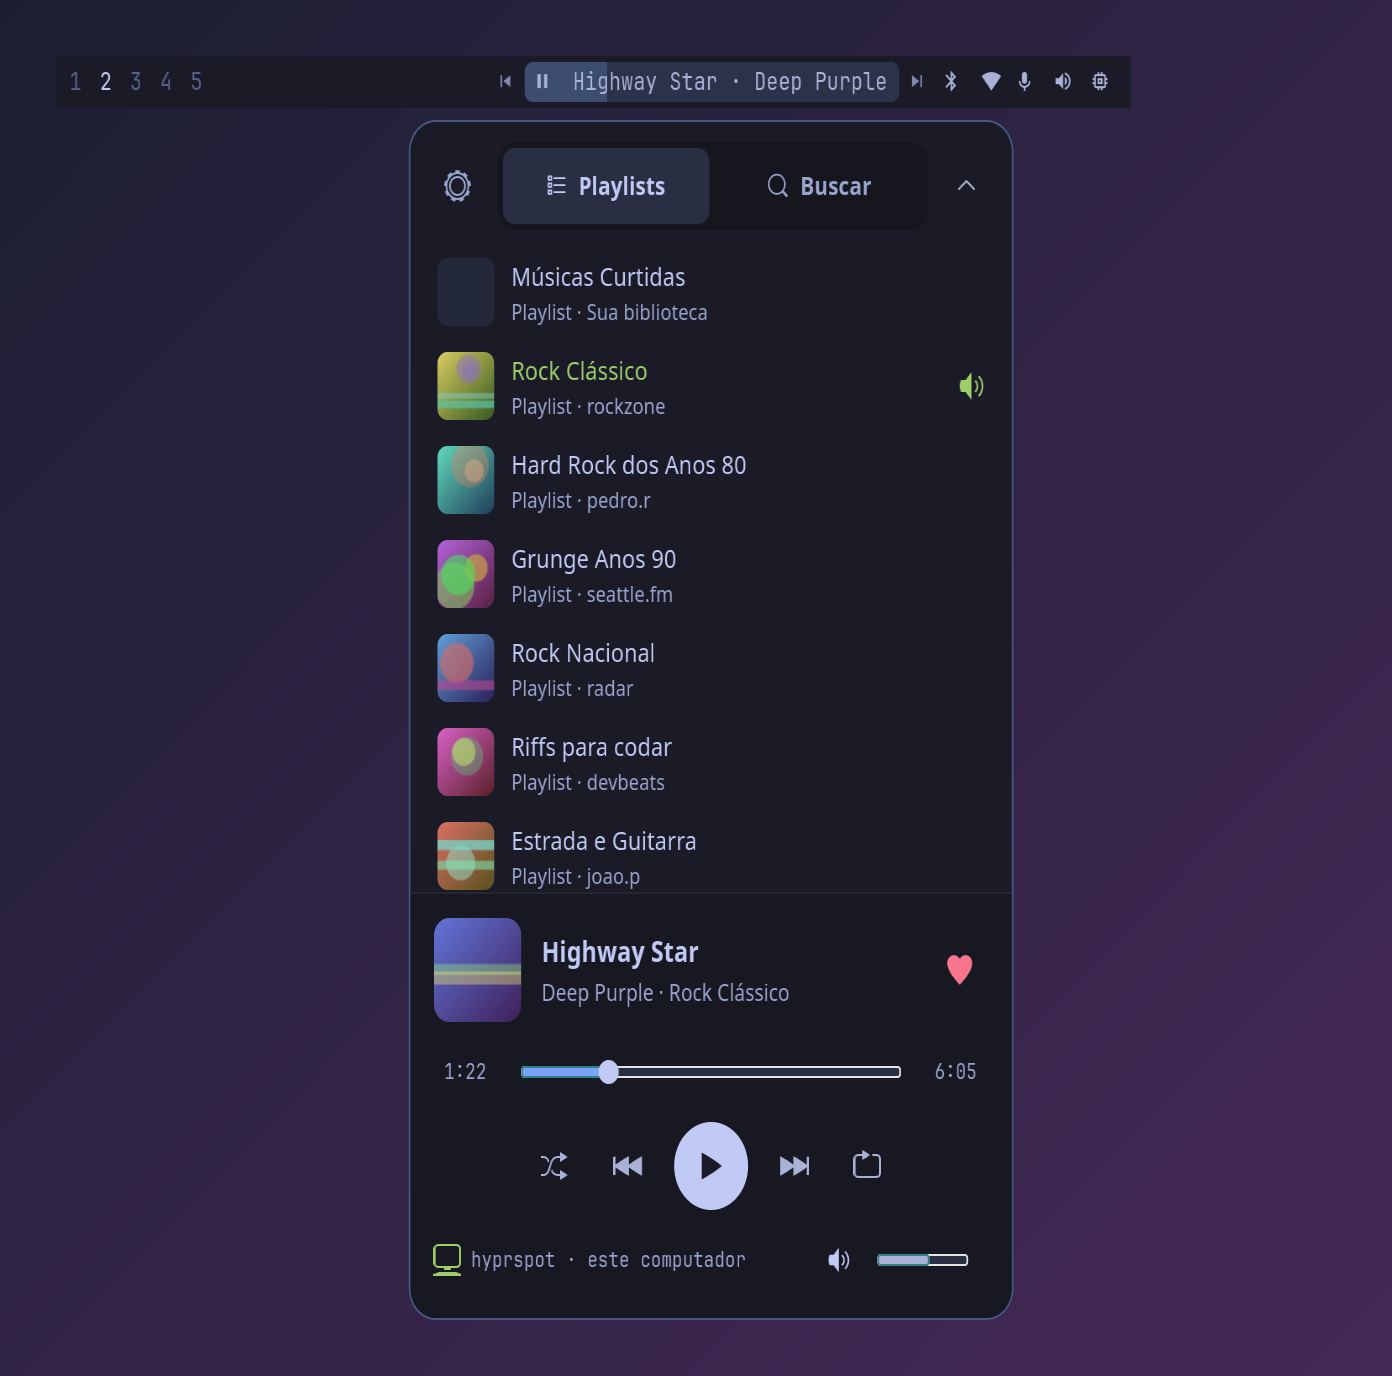
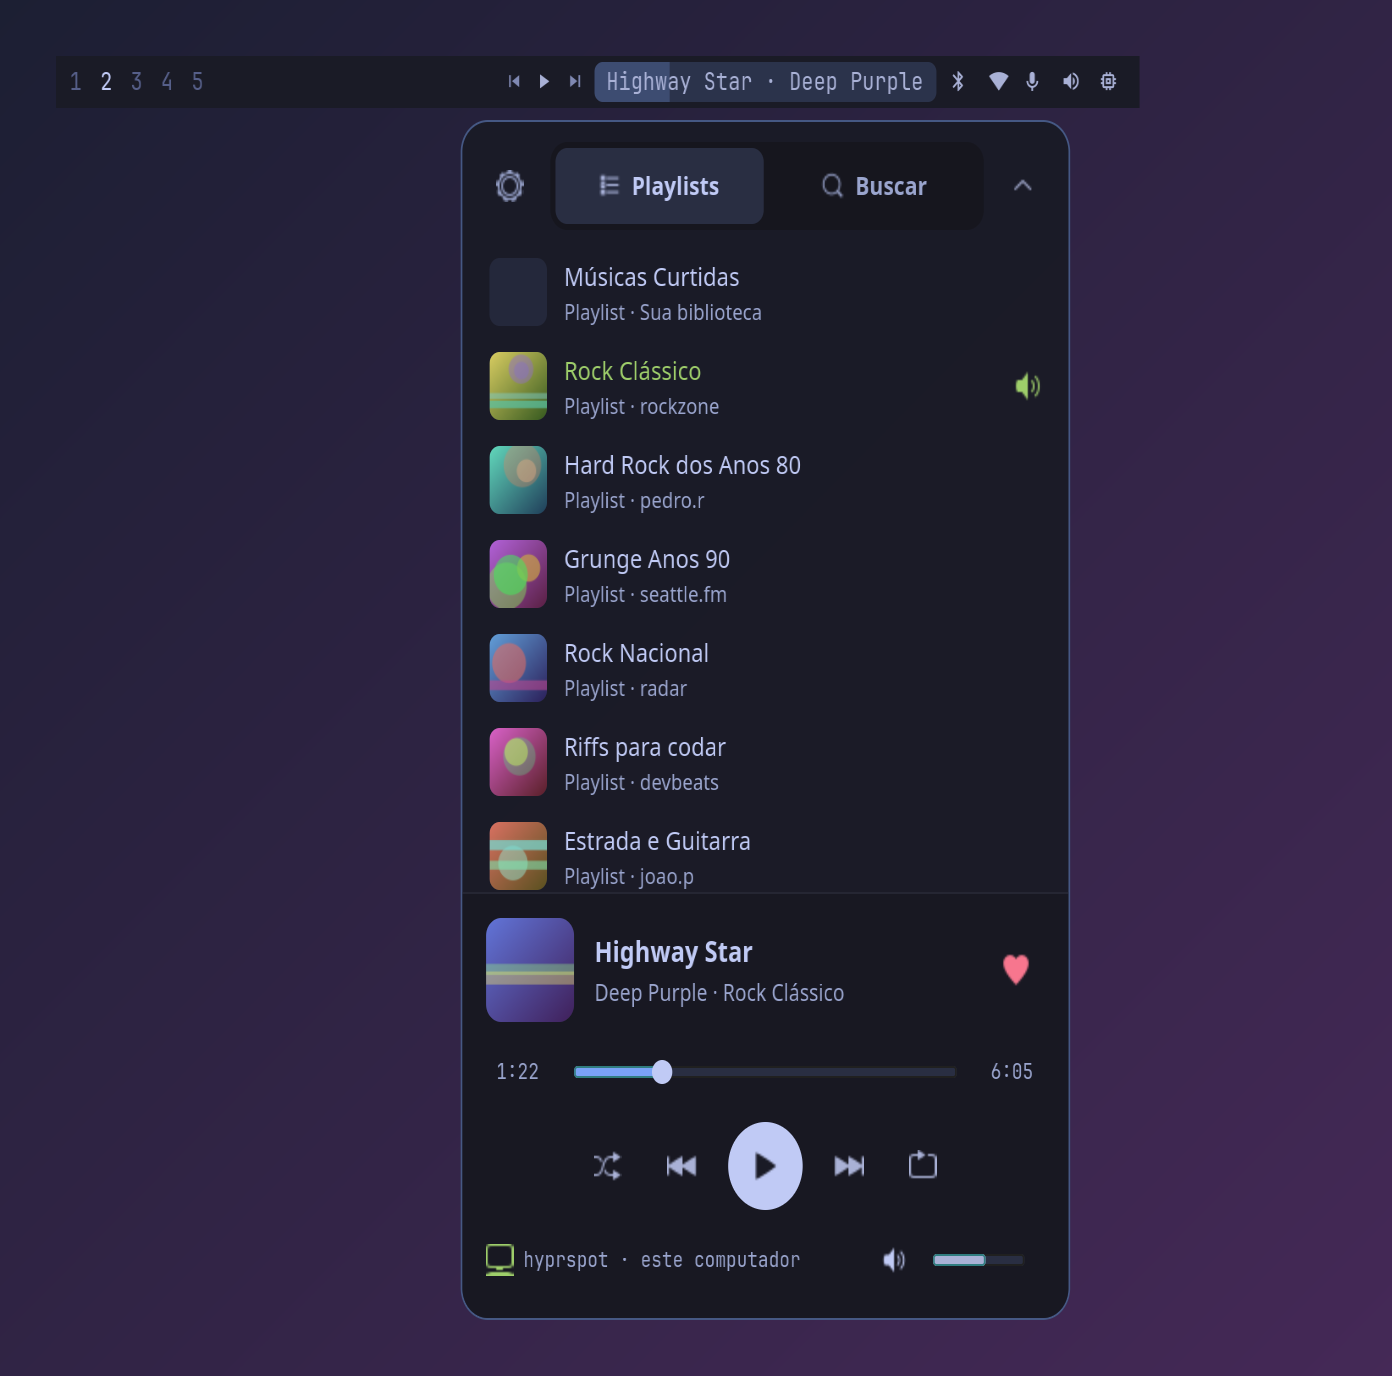
fix: botão de tocar/pausar próprio na Waybar
O ícone de pausar ficava dentro do item custom/hyprspot, em cima do fundo de
progresso, e clicar nele abria o player em vez de pausar. Agora ele é o item
custom/hyprspot-play (hyprspot-ctl waybar play, clique = media play-pause),
junto de anterior e próxima; o item com a faixa e o progresso vem depois e só
ele abre o player.

- quem já tinha prev/item/next ganha o botão e a nova ordem ao abrir o
  hyprspot na Waybar (com backup da config e do style.css)
- o `exec` dos itens (waybar-status) não importa mais o Soup/GI
- o stream tira o ícone antigo que um app ainda não reiniciado grave no texto
- README e captura waybar.png atualizados

Changed region(s): [[0.278, 0.0312, 0.8341, 0.9688], [0.6487, 0.8438, 0.6796, 0.875], [0.6487, 0.75, 0.6796, 0.7812]]

diff --git a/hyprspot/waybar.py b/hyprspot/waybar.py
@@ -8,15 +8,16 @@ from __future__ import annotations
 
 import json
 import os
+import re
 import shutil
 import sys
 import time
 from datetime import datetime
 from pathlib import Path
+from typing import TYPE_CHECKING
 
-
-from hyprspot.presenter import now_playing
-from hyprspot.state import Playback, clock_ms, position_now
+if TYPE_CHECKING:  # o `exec` dos itens (stream) não pode depender do GI/Soup: importa só json
+    from hyprspot.state import Playback
 
 RUNTIME = Path(os.environ.get("XDG_RUNTIME_DIR") or f"/run/user/{os.getuid()}") / "hyprspot"
 STATUS_PATH = RUNTIME / "waybar.json"
@@ -38,6 +39,8 @@ def _cut(s: str, n: int = MAX_CHARS) -> str:
 
 def progress(pb: Playback, now_ms: int | None = None) -> int | None:
     """Posição da faixa em % inteiros (a classe pN desenha a linha de progresso embaixo do item)."""
+    from hyprspot.state import clock_ms, position_now
+
     dur = pb.track.duration_ms if pb.track else 0
     if not dur:
         return None
@@ -47,6 +50,8 @@ def progress(pb: Playback, now_ms: int | None = None) -> int | None:
 def status(pb: Playback, open_: bool, context_name: str | None = None, soloist_days: int | None = None,
            now_ms: int | None = None) -> dict:
     """O JSON do item da barra para o estado atual."""
+    from hyprspot.presenter import now_playing
+
     v = now_playing(pb, context_name, soloist_days)
     tip = "\n".join(x for x in (v.title, v.detail or v.subtitle) if x)
     if v.offline:
@@ -54,8 +59,9 @@ def status(pb: Playback, open_: bool, context_name: str | None = None, soloist_d
     if pb.track is None:
         text, cls = f"{ICON_NOTE}  {v.title}", "idle"
     else:
-        line = " · ".join(x for x in (v.title, v.subtitle) if x)
-        text = f"{ICON_PAUSE if v.playing else ICON_PLAY}  {_esc(_cut(line))}"
+        # sem o ícone de tocar/pausar: ele é um item próprio (custom/hyprspot-play), porque clicar aqui
+        # abre o player
+        text = _esc(_cut(" · ".join(x for x in (v.title, v.subtitle) if x)))
         cls = "playing" if v.playing else "paused"
     classes = (["open"] if open_ else []) + [cls]
     pct = progress(pb, now_ms)
@@ -86,26 +92,42 @@ def write_status(data: dict | None, path: Path = STATUS_PATH) -> bool:
 
 
 def control(main: dict, kind: str) -> dict:
-    """Os botões ao lado do item: somem com ele (flutuando, app fechado ou Soloist desconectado)."""
+    """Os botões ao lado do item: somem com ele (flutuando, app fechado ou Soloist desconectado).
+    Tocar/pausar some também sem faixa (idle)."""
     cls = main.get("class")
     classes = cls if isinstance(cls, list) else [cls]
     if not main.get("text") or "hidden" in classes or "disconnected" in classes:
+        return dict(HIDDEN)
+    if kind == "play":
+        if "playing" in classes:
+            return {"text": ICON_PAUSE, "tooltip": "Pausar", "class": ["control", "playing"]}
+        if "paused" in classes:
+            return {"text": ICON_PLAY, "tooltip": "Tocar", "class": ["control", "paused"]}
         return dict(HIDDEN)
     if kind == "prev":
         return {"text": ICON_PREV, "tooltip": "Faixa anterior", "class": "control"}
     return {"text": ICON_NEXT, "tooltip": "Próxima faixa", "class": "control"}
 
 
+def _main(main: dict) -> dict:
+    """O item principal, sem o ícone de tocar/pausar que um app de versão anterior ainda grave no começo."""
+    text = main.get("text") or ""
+    for icon in (ICON_PAUSE, ICON_PLAY):
+        if text.startswith(icon + "  "):
+            return {**main, "text": text[len(icon) + 2:]}
+    return main
+
+
 def stream(path: Path = STATUS_PATH, out=sys.stdout, poll_s: float = 0.25, once: bool = False,
            kind: str = "main") -> None:
-    """O `exec` de cada item (main, prev, next): uma linha por mudança do arquivo de estado."""
+    """O `exec` de cada item (main, prev, play, next): uma linha por mudança do arquivo de estado."""
     last = None
     while True:
         try:
             main = json.loads(path.read_text() or "null") or dict(HIDDEN)
         except (OSError, ValueError):
             main = dict(HIDDEN)
-        line = json.dumps(main if kind == "main" else control(main, kind), ensure_ascii=False)
+        line = json.dumps(_main(main) if kind == "main" else control(main, kind), ensure_ascii=False)
         if line != last:
             out.write(line + "\n")
             out.flush()
@@ -116,8 +138,9 @@ def stream(path: Path = STATUS_PATH, out=sys.stdout, poll_s: float = 0.25, once:
 
 
 # ---------------------------------------------------------------------- config da Waybar
-PREV, NEXT = MODULE + "-prev", MODULE + "-next"
-MODULES = (PREV, MODULE, NEXT)
+PREV, PLAY, NEXT = MODULE + "-prev", MODULE + "-play", MODULE + "-next"
+MODULES = (PREV, PLAY, NEXT, MODULE)  # os botões juntos e o item (que abre o player) por último
+_OURS = re.compile(r'"custom/hyprspot(?:-(?:prev|play|next))?"\s*,?\s*')
 
 
 def module_block(bin_dir: Path, name: str = MODULE) -> str:
@@ -136,13 +159,14 @@ def module_block(bin_dir: Path, name: str = MODULE) -> str:
     "on-scroll-down": "{ctl} volume-down"
   }},
 '''
-    kind = "prev" if name == PREV else "next"
+    kind = {PREV: "prev", PLAY: "play", NEXT: "next"}[name]
+    action = "play-pause" if kind == "play" else kind
     return f'''  "{name}": {{
     "exec": "{ctl} waybar {kind}",
     "return-type": "json",
     "restart-interval": 5,
     "tooltip": true,
-    "on-click": "{ctl} media {kind}"
+    "on-click": "{ctl} media {action}"
   }},
 '''
 
@@ -158,6 +182,11 @@ CONTROL_STYLE = """
 /* custom/hyprspot-prev e -next: anterior / próxima ao lado do item */
 #custom-hyprspot-prev, #custom-hyprspot-next { padding: 0 5px; margin: 3px 0; border-radius: 5px; color: @muted; }
 #custom-hyprspot-prev:hover, #custom-hyprspot-next:hover { color: @foreground; background-color: alpha(@foreground, 0.08); }
+"""
+PLAY_STYLE = """
+/* custom/hyprspot-play: tocar / pausar, entre anterior e próxima */
+#custom-hyprspot-play { padding: 0 5px; margin: 3px 0; border-radius: 5px; color: @foreground; }
+#custom-hyprspot-play:hover { background-color: alpha(@foreground, 0.08); }
 """
 
 
@@ -176,8 +205,9 @@ def _quoted(name: str) -> str:
 
 
 def add_module(config_text: str, bin_dir: Path) -> str | None:
-    """Põe anterior, item e próxima no início de modules-right (ou troca o item antigo pelos três) e as
-    definições antes do fim. None: já está tudo, ou não deu."""
+    """Põe anterior, tocar/pausar, próxima e o item no início de modules-right (ou, se já houver algum
+    deles, no lugar do primeiro, na ordem certa) e as definições que faltam antes do fim.
+    None: já está tudo, ou não deu."""
     text = config_text
     i = text.find('"modules-right"')
     j = text.find("[", i) if i >= 0 else -1
@@ -185,15 +215,21 @@ def add_module(config_text: str, bin_dir: Path) -> str | None:
     if k < 0:
         return None
     listed = text[j + 1:k]
-    trio = ", ".join(_quoted(m) for m in MODULES)
-    if all(_quoted(m) in listed for m in MODULES):
-        pass
-    elif _quoted(MODULE) in listed and not any(_quoted(m) in listed for m in (PREV, NEXT)):
-        text = text[: j + 1] + listed.replace(_quoted(MODULE), trio, 1) + text[k:]
+    group = ", ".join(_quoted(m) for m in MODULES)
+    found = _OURS.search(listed)
+    if found:
+        at = found.start()
+        rest = _OURS.sub("", listed)
+        after = rest[at:]
+        if after.strip():
+            new_listed = rest[:at] + group + ", " + after
+        else:
+            new_listed = re.sub(r",\s*$", "", rest[:at].rstrip()) + (", " if rest[:at].strip() else "") + group
     else:
         first = listed.lstrip()
-        sep = ", " if first else ""
-        text = text[: j + 1] + trio + sep + listed.lstrip(" ") + text[k:]
+        new_listed = group + (", " if first else "") + listed.lstrip(" ")
+    if new_listed != listed:
+        text = text[: j + 1] + new_listed + text[k:]
     missing = [m for m in MODULES if f"{_quoted(m)}:" not in text and f"{_quoted(m)} :" not in text]
     if text == config_text and not missing:
         return None
@@ -224,6 +260,7 @@ def install(bin_dir: Path, waybar_dir: Path = WAYBAR_DIR) -> str:
         old = css.read_text()
         extra = ("" if "#custom-hyprspot {" in old else STYLE_BLOCK) + \
                 ("" if "#custom-hyprspot-prev" in old else CONTROL_STYLE) + \
+                ("" if "#custom-hyprspot-play" in old else PLAY_STYLE) + \
                 ("" if "#custom-hyprspot.p50 " in old else PROGRESS_STYLE)
         if extra:
             shutil.copy2(css, css.with_name(f"style.css.bak.hyprspot.{stamp}"))

diff --git a/tests/test_waybar.py b/tests/test_waybar.py
@@ -18,8 +18,9 @@ def _pb(**kw):
 
 def test_status_playing_paused_open_and_offline():
     s = waybar.status(_pb(), False)
-    assert s["class"][0] == "playing" and s["text"].startswith(waybar.ICON_PAUSE)
-    assert "Californication · Red Hot Chili Peppers" in s["text"]
+    assert s["class"][0] == "playing" and s["text"] == "Californication · Red Hot Chili Peppers"
+    # o ícone de tocar/pausar não fica no item que abre o player (o clique nele abria o player)
+    assert waybar.ICON_PAUSE not in s["text"] and waybar.ICON_PLAY not in s["text"]
     assert waybar.status(_pb(status="paused"), False)["class"] == ["paused", "p0"]
     assert waybar.status(_pb(), True)["class"][:2] == ["open", "playing"]
     off = waybar.status(Playback(), False)
@@ -61,10 +62,13 @@ def _jsonc(text):
 def test_add_module_puts_it_first_on_the_right_and_stays_valid():
     new = waybar.add_module(CONFIG, Path("/b"))
     data = _jsonc(new)
-    assert data["modules-right"] == ["custom/hyprspot-prev", "custom/hyprspot", "custom/hyprspot-next", "bluetooth", "cpu"]
+    assert data["modules-right"] == ["custom/hyprspot-prev", "custom/hyprspot-play", "custom/hyprspot-next",
+                                     "custom/hyprspot", "bluetooth", "cpu"]
     assert data["custom/hyprspot"]["on-click"] == "/b/hyprspot-ctl bar-toggle"
     assert data["custom/hyprspot-prev"]["on-click"] == "/b/hyprspot-ctl media prev"
     assert data["custom/hyprspot-next"]["exec"] == "/b/hyprspot-ctl waybar next"
+    assert data["custom/hyprspot-play"]["exec"] == "/b/hyprspot-ctl waybar play"
+    assert data["custom/hyprspot-play"]["on-click"] == "/b/hyprspot-ctl media play-pause"
     assert waybar.add_module(new, Path("/b")) is None  # idempotente
 
 
@@ -73,7 +77,8 @@ def test_install_backs_up_and_is_idempotent(tmp_path):
     (tmp_path / "style.css").write_text("* { font-size: 12px; }\n")
     assert waybar.install(Path("/b"), tmp_path) == "config, estilo"
     assert len(list(tmp_path.glob("config.jsonc.bak.hyprspot.*"))) == 1
-    assert "#custom-hyprspot" in (tmp_path / "style.css").read_text()
+    css = (tmp_path / "style.css").read_text()
+    assert "#custom-hyprspot {" in css and "#custom-hyprspot-play {" in css
     assert waybar.install(Path("/b"), tmp_path) == "já instalado"
 
 
@@ -84,11 +89,40 @@ OLD_INSTALL = """{
 """
 
 
-def test_upgrade_wraps_the_old_item_with_prev_and_next():
+def test_upgrade_wraps_the_old_item_with_the_controls():
     data = _jsonc(waybar.add_module(OLD_INSTALL, Path("/b")))
-    assert data["modules-right"] == ["custom/hyprspot-prev", "custom/hyprspot", "custom/hyprspot-next", "bluetooth"]
+    assert data["modules-right"] == ["custom/hyprspot-prev", "custom/hyprspot-play", "custom/hyprspot-next",
+                                     "custom/hyprspot", "bluetooth"]
     assert data["custom/hyprspot"] == {"exec": "x"}  # a definição antiga fica como está
     assert "custom/hyprspot-next" in data
+
+
+TRIO_INSTALL = """{
+  "modules-left": ["clock"],
+  "modules-right": ["custom/hyprspot-prev", "custom/hyprspot", "custom/hyprspot-next", "bluetooth", "cpu"],
+  "custom/hyprspot": { "exec": "x" },
+  "custom/hyprspot-prev": { "exec": "p" },
+  "custom/hyprspot-next": { "exec": "n" }
+}
+"""
+
+
+def test_upgrade_from_prev_item_next_adds_play_and_regroups():
+    new = waybar.add_module(TRIO_INSTALL, Path("/b"))
+    data = _jsonc(new)
+    assert data["modules-right"] == ["custom/hyprspot-prev", "custom/hyprspot-play", "custom/hyprspot-next",
+                                     "custom/hyprspot", "bluetooth", "cpu"]
+    assert data["custom/hyprspot-play"]["on-click"] == "/b/hyprspot-ctl media play-pause"
+    assert data["custom/hyprspot-prev"] == {"exec": "p"}
+    assert waybar.add_module(new, Path("/b")) is None
+
+
+def test_group_keeps_its_place_in_the_middle_or_at_the_end():
+    mid = '{ "modules-right": ["a", "custom/hyprspot", "b"] }'
+    end = '{ "modules-right": ["a",\n    "custom/hyprspot-prev", "custom/hyprspot"] }'
+    group = ["custom/hyprspot-prev", "custom/hyprspot-play", "custom/hyprspot-next", "custom/hyprspot"]
+    assert _jsonc(waybar.add_module(mid, Path("/b")))["modules-right"] == ["a", *group, "b"]
+    assert _jsonc(waybar.add_module(end, Path("/b")))["modules-right"] == ["a", *group]
 
 
 def test_controls_follow_the_main_item():
@@ -99,9 +133,32 @@ def test_controls_follow_the_main_item():
     assert waybar.control({"text": waybar.ICON_NOTE, "class": "disconnected"}, "prev")["text"] == ""
 
 
+def test_play_button_shows_pause_while_playing_and_hides_without_a_track():
+    assert waybar.control({"text": "x", "class": ["playing", "p3"]}, "play")["text"] == waybar.ICON_PAUSE
+    assert waybar.control({"text": "x", "class": ["open", "paused", "p3"]}, "play")["text"] == waybar.ICON_PLAY
+    assert waybar.control({"text": "x", "class": "idle"}, "play")["text"] == ""
+    assert waybar.control(dict(waybar.HIDDEN), "play")["text"] == ""
+
+
+def test_stream_play_kind(tmp_path):
+    p = tmp_path / "waybar.json"
+    waybar.write_status(waybar.status(_pb(status="paused"), False), p)
+    out = io.StringIO()
+    waybar.stream(p, out, once=True, kind="play")
+    assert json.loads(out.getvalue())["text"] == waybar.ICON_PLAY
+
+
 def test_progress_class_follows_the_position():
     pb = _pb(status="playing", position_ms=164500, position_ts_ms=1000, speed=1.0)
     assert waybar.status(pb, False, now_ms=1000)["class"] == ["playing", "p50"]
     assert waybar.status(pb, False, now_ms=1000 + 33000)["class"] == ["playing", "p60"]
     assert waybar.progress(_pb(track=None)) is None
     assert "#custom-hyprspot.p100 { background-size: 100% 100%; }" in waybar.PROGRESS_STYLE
+
+
+def test_stream_drops_the_icon_an_older_app_still_writes(tmp_path):
+    p = tmp_path / "waybar.json"
+    waybar.write_status({"text": waybar.ICON_PAUSE + "  A · B", "class": ["playing", "p1"]}, p)
+    out = io.StringIO()
+    waybar.stream(p, out, once=True)
+    assert json.loads(out.getvalue())["text"] == "A · B"

diff --git a/scripts/make_screenshots.py b/scripts/make_screenshots.py
@@ -180,8 +180,8 @@ def host(child: Gtk.Widget, title: str) -> Gtk.Window:
     return win
 
 
-# Um pedaço da Waybar (Tokyo Night) para mostrar o modo "Na Waybar": anterior, o item com o
-# progresso como fundo, próxima e alguns ícones, com o player aberto embaixo do item.
+# Um pedaço da Waybar (Tokyo Night) para mostrar o modo "Na Waybar": anterior, tocar/pausar, próxima,
+# o item com o progresso como fundo e alguns ícones, com o player aberto embaixo do item.
 BAR_W, BAR_H, DROP_GAP = 640, 26, 6
 BAR_CSS = """
 .shot-bar { background-color: #1a1b26; color: #a9b1d6; font-family: 'JetBrainsMono Nerd Font'; font-size: 12px;
@@ -190,6 +190,7 @@ BAR_CSS = """
 .shot-bar .ws-on { color: #c0caf5; }
 .shot-bar .ws-off { color: #565f89; }
 .shot-bar .ctl { color: #8089b3; padding: 0 5px; }
+.shot-bar .ctl.play { color: #a9b1d6; }
 .shot-bar .icon { padding: 0 7px; }
 .shot-pill { padding: 0 7px; margin: 3px 2px; border-radius: 5px; color: #7aa2f7;
   background-color: alpha(#7aa2f7, 0.18);
@@ -215,11 +216,15 @@ def waybar_shot(state: AppState, art, out: Path, done) -> None:
     right = Gtk.Box()
     prev = Gtk.Label(label="\U000f04ae")
     prev.add_css_class("ctl")
-    pill = Gtk.Label(label=f"\U000f03e4  {NOW.title} · {NOW.artist}")
-    pill.add_css_class("shot-pill")
+    # o mesmo ícone do item custom/hyprspot-play: pausar tocando, tocar pausado (como o player embaixo)
+    play = Gtk.Label(label="\U000f03e4" if state.playback.status == "playing" else "\U000f040a")
+    play.add_css_class("ctl")
+    play.add_css_class("play")
     nxt = Gtk.Label(label="\U000f04ad")
     nxt.add_css_class("ctl")
-    for w in (prev, pill, nxt):
+    pill = Gtk.Label(label=f"{NOW.title} · {NOW.artist}")
+    pill.add_css_class("shot-pill")
+    for w in (prev, play, nxt, pill):
         right.append(w)
     for g in ("\U000f00af", "\U000f0928", "\U000f036c", "\U000f057e", "\U000f035b"):  # bt, wifi, mic, som, cpu
         lb = Gtk.Label(label=g)

diff --git a/hyprspot/cli.py b/hyprspot/cli.py
@@ -20,7 +20,7 @@ HELP = """uso: hyprspot [comando]
   settings          expande na aba Ajustes
   bar-toggle        abre/fecha o player embaixo do cursor (o clique no item da Waybar)
   volume-up | volume-down
-  waybar-status [prev|next]  o texto dos itens custom/hyprspot da Waybar (fica rodando)
+  waybar-status [prev|play|next]  o texto dos itens custom/hyprspot da Waybar (fica rodando)
   collapse          recolhe
   hide | show       esconde/mostra o widget
   quit              fecha o hyprspot (a música continua no Soloist)
@@ -40,7 +40,7 @@ def parse_args(argv: list[str]) -> tuple[str, dict]:
         return "version", {}
     if cmd == "expand" and rest in ([], ["--search"]):
         return "expand", {"search": rest == ["--search"]}
-    if cmd == "waybar-status" and rest in ([], ["main"], ["prev"], ["next"]):
+    if cmd == "waybar-status" and rest in ([], ["main"], ["prev"], ["play"], ["next"]):
         return cmd, {"kind": rest[0] if rest else "main"}
     if cmd in SIMPLE and not rest:
         return cmd, {}

diff --git a/tests/test_cli.py b/tests/test_cli.py
@@ -38,4 +38,5 @@ def test_waybar_status_kinds():
     from hyprspot.cli import parse_args
     assert parse_args(["waybar-status"]) == ("waybar-status", {"kind": "main"})
     assert parse_args(["waybar-status", "prev"]) == ("waybar-status", {"kind": "prev"})
+    assert parse_args(["waybar-status", "play"]) == ("waybar-status", {"kind": "play"})
     assert parse_args(["waybar-status", "x"])[0] == "help"

diff --git a/README.md b/README.md
@@ -139,14 +139,14 @@ Para integrar a outros painéis (Waybar, eww etc.):
 <p align="center">
   <img src="docs/screenshots/expanded-settings.png" width="260" alt="Aba Ajustes: transparência, desfoque, onde fica, canto e monitor">
   &nbsp;
-  <img src="docs/screenshots/waybar.png" width="440" alt="hyprspot na Waybar: anterior, o item com o progresso como fundo, próxima, e o player aberto embaixo">
+  <img src="docs/screenshots/waybar.png" width="440" alt="hyprspot na Waybar: anterior, tocar/pausar e próxima, o item com o progresso como fundo, e o player aberto embaixo">
 </p>
 
 A aba **Ajustes** do expandido (a engrenagem à esquerda das abas, ou `hyprspot settings`) muda na hora, e grava em `config.toml`:
 
 - **Transparência** do fundo, de 0 % (opaco) a 70 %. Só o fundo fica transparente; textos e botões continuam nítidos, e o desfoque do Hyprland continua atrás.
 - **Desfoque:** liga ou desliga o blur do Hyprland atrás do widget. O blur do Omarchy também escurece o fundo (`brightness` do blur no `looknfeel.conf`); desligado, a transparência mostra a área de trabalho nítida.
-- **Onde fica:** "Flutuando" (o widget de sempre) ou "Na Waybar". Na Waybar o widget flutuante some e vira um item na barra com a faixa e o artista, entre os botões de faixa anterior e próxima e com o fundo enchendo conforme a música anda; clicar no item abre o player logo abaixo, o botão direito toca/pausa, o do meio pula de faixa e rolar muda o volume. Na primeira vez, o hyprspot põe `custom/hyprspot-prev`, `custom/hyprspot` e `custom/hyprspot-next` no início de `modules-right` do `~/.config/waybar/config.jsonc` e o estilo no `style.css`, com backup `.bak.hyprspot.<data>` de cada um. Flutuando, o item some da barra sozinho.
+- **Onde fica:** "Flutuando" (o widget de sempre) ou "Na Waybar". Na Waybar o widget flutuante some e vira os botões de faixa anterior, tocar/pausar e próxima, seguidos de um item com a faixa e o artista, com o fundo enchendo conforme a música anda; clicar no item abre o player logo abaixo, o botão direito toca/pausa, o do meio pula de faixa e rolar muda o volume. Na primeira vez, o hyprspot põe `custom/hyprspot-prev`, `custom/hyprspot-play`, `custom/hyprspot-next` e `custom/hyprspot` no início de `modules-right` do `~/.config/waybar/config.jsonc` e o estilo no `style.css`, com backup `.bak.hyprspot.<data>` de cada um (quem já tinha o item ganha o botão de tocar/pausar ao abrir o hyprspot na Waybar). Flutuando, o item some da barra sozinho.
 - **Canto:** leva o widget para um dos quatro cantos. Depois disso, arrastar continua funcionando.
 - **Monitor:** prende o widget a um monitor, ou "Automático" para abrir no monitor em foco.
 - **Chave do Soloist:** cole uma chave nova e clique em "Salvar e reiniciar". Ela é gravada em `soloist.env` (permissão 600) e o `soloist.service` reinicia. "Gerar chave" abre o painel do Spotify.
